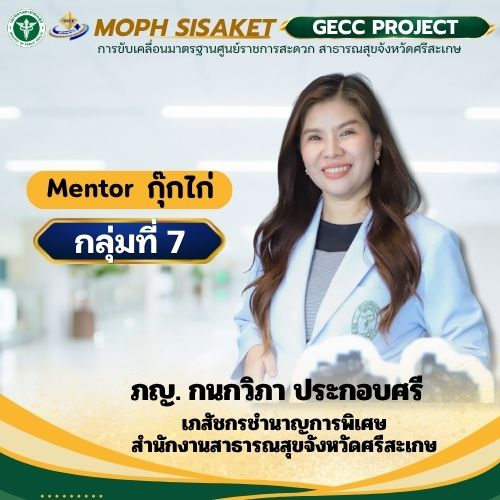
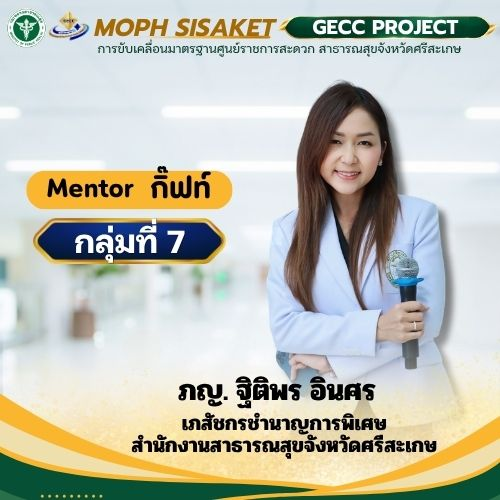
Swap mentor assignments: Mentor Gift to Group 7 and Mentor Kukkai to Group 10

Changed region(s): [[0.24, 0.12, 1.0, 0.87], [0.27, 0.33, 0.45, 0.42]]

diff --git a/index.html b/index.html
@@ -2539,7 +2539,7 @@ const OFFICIAL_UNITS = [
     "name": "โรงพยาบาลยางชุมน้อย (อำเภอยางชุมน้อย)",
     "district": "ยางชุมน้อย",
     "kind": "",
-    "team": 10,
+    "team": 7,
     "prev": ""
   },
   {
@@ -2548,7 +2548,7 @@ const OFFICIAL_UNITS = [
     "name": "โรงพยาบาลกันทรารมย์ (อำเภอกันทรารมย์)",
     "district": "กันทรารมย์",
     "kind": "",
-    "team": 10,
+    "team": 7,
     "prev": ""
   },
   {
@@ -2575,7 +2575,7 @@ const OFFICIAL_UNITS = [
     "name": "โรงพยาบาลปรางค์กู่ (อำเภอปรางค์กู่)",
     "district": "ปรางค์กู่",
     "kind": "",
-    "team": 7,
+    "team": 10,
     "prev": ""
   },
   {
@@ -2584,7 +2584,7 @@ const OFFICIAL_UNITS = [
     "name": "โรงพยาบาลขุนหาญ (อำเภอขุนหาญ)",
     "district": "ขุนหาญ",
     "kind": "",
-    "team": 10,
+    "team": 7,
     "prev": ""
   },
   {
@@ -2593,7 +2593,7 @@ const OFFICIAL_UNITS = [
     "name": "โรงพยาบาลอุทุมพรพิสัย (อำเภออุทุมพรพิสัย)",
     "district": "อุทุมพรพิสัย",
     "kind": "",
-    "team": 7,
+    "team": 10,
     "prev": ""
   },
   {
@@ -2602,7 +2602,7 @@ const OFFICIAL_UNITS = [
     "name": "โรงพยาบาลบึงบูรพ์ (อำเภอบึงบูรพ์)",
     "district": "บึงบูรพ์",
     "kind": "",
-    "team": 10,
+    "team": 7,
     "prev": ""
   },
   {
@@ -2629,7 +2629,7 @@ const OFFICIAL_UNITS = [
     "name": "โรงพยาบาลศรีรัตนะ (อำเภอศรีรัตนะ)",
     "district": "ศรีรัตนะ",
     "kind": "",
-    "team": 7,
+    "team": 10,
     "prev": ""
   },
   {
@@ -2665,7 +2665,7 @@ const OFFICIAL_UNITS = [
     "name": "โรงพยาบาลเมืองจันทร์ (อำเภอเมืองจันทร์)",
     "district": "เมืองจันทร์",
     "kind": "",
-    "team": 10,
+    "team": 7,
     "prev": ""
   },
   {
@@ -2683,7 +2683,7 @@ const OFFICIAL_UNITS = [
     "name": "โรงพยาบาลพยุห์ (อำเภอพยุห์)",
     "district": "พยุห์",
     "kind": "",
-    "team": 7,
+    "team": 10,
     "prev": ""
   },
   {
@@ -2692,7 +2692,7 @@ const OFFICIAL_UNITS = [
     "name": "โรงพยาบาลโพธิ์ศรีสุวรรณ (อำเภอโพธิ์ศรีสุวรรณ)",
     "district": "โพธิ์ศรีสุวรรณ",
     "kind": "",
-    "team": 7,
+    "team": 10,
     "prev": ""
   },
   {
@@ -2950,11 +2950,11 @@ const OFFICIAL_GROUPS = [
   {
     "name": "กลุ่มที่ 7: งานสาธารณสุข",
     "units": [
-      ["โรงพยาบาลศรีรัตนะ (อำเภอศรีรัตนะ)", "ศรีรัตนะ", "h14", "000114"],
-      ["โรงพยาบาลปรางค์กู่ (อำเภอปรางค์กู่)", "ปรางค์กู่", "h07", "000107"],
-      ["โรงพยาบาลพยุห์ (อำเภอพยุห์)", "พยุห์", "h20", "000120"],
-      ["โรงพยาบาลโพธิ์ศรีสุวรรณ (อำเภอโพธิ์ศรีสุวรรณ)", "โพธิ์ศรีสุวรรณ", "h21", "000121"],
-      ["โรงพยาบาลอุทุมพรพิสัย (อำเภออุทุมพรพิสัย)", "อุทุมพรพิสัย", "h10", "000110"]
+      ["โรงพยาบาลเมืองจันทร์ (อำเภอเมืองจันทร์)", "เมืองจันทร์", "h18", "000118"],
+      ["โรงพยาบาลกันทรารมย์ (อำเภอกันทรารมย์)", "กันทรารมย์", "h03", "000103"],
+      ["โรงพยาบาลบึงบูรพ์ (อำเภอบึงบูรพ์)", "บึงบูรพ์", "h11", "000111"],
+      ["โรงพยาบาลขุนหาญ (อำเภอขุนหาญ)", "ขุนหาญ", "h08", "000108"],
+      ["โรงพยาบาลยางชุมน้อย (อำเภอยางชุมน้อย)", "ยางชุมน้อย", "h02", "000102"]
     ]
   },
   {
@@ -2980,11 +2980,11 @@ const OFFICIAL_GROUPS = [
   {
     "name": "กลุ่มที่ 10: งานสาธารณสุข",
     "units": [
-      ["โรงพยาบาลเมืองจันทร์ (อำเภอเมืองจันทร์)", "เมืองจันทร์", "h18", "000118"],
-      ["โรงพยาบาลกันทรารมย์ (อำเภอกันทรารมย์)", "กันทรารมย์", "h03", "000103"],
-      ["โรงพยาบาลบึงบูรพ์ (อำเภอบึงบูรพ์)", "บึงบูรพ์", "h11", "000111"],
-      ["โรงพยาบาลขุนหาญ (อำเภอขุนหาญ)", "ขุนหาญ", "h08", "000108"],
-      ["โรงพยาบาลยางชุมน้อย (อำเภอยางชุมน้อย)", "ยางชุมน้อย", "h02", "000102"]
+      ["โรงพยาบาลศรีรัตนะ (อำเภอศรีรัตนะ)", "ศรีรัตนะ", "h14", "000114"],
+      ["โรงพยาบาลปรางค์กู่ (อำเภอปรางค์กู่)", "ปรางค์กู่", "h07", "000107"],
+      ["โรงพยาบาลพยุห์ (อำเภอพยุห์)", "พยุห์", "h20", "000120"],
+      ["โรงพยาบาลโพธิ์ศรีสุวรรณ (อำเภอโพธิ์ศรีสุวรรณ)", "โพธิ์ศรีสุวรรณ", "h21", "000121"],
+      ["โรงพยาบาลอุทุมพรพิสัย (อำเภออุทุมพรพิสัย)", "อุทุมพรพิสัย", "h10", "000110"]
     ]
   }
 ];
@@ -3195,11 +3195,11 @@ const MENTOR_MEMBERS = {
     "focus": "งานสาธารณสุข (โรงพยาบาล 5 แห่ง)",
     "m": [
       [
-        "ภญ.กนกวิภา ประกอบศรี",
-        "กลุ่มงานคุ้มครองผู้บริโภคฯ สำนักงานสาธารณสุขจังหวัดศรีสะเกษ",
-        "assets/images/mentor-group-7-1.jpg?v=2570e",
+        "ภญ.ฐิติพร อินศร",
+        "เภสัชกรชำนาญการพิเศษ สำนักงานสาธารณสุขจังหวัดศรีสะเกษ",
+        "assets/images/mentor-group-7-1.jpg?v=2570g",
         "หัวหน้าทีม",
-        "0896254066"
+        "0894230010"
       ]
     ]
   },
@@ -3207,9 +3207,9 @@ const MENTOR_MEMBERS = {
     "focus": "งานสาธารณสุข (โรงพยาบาล 5 แห่ง)",
     "m": [
       [
-        "ภญ.ณัฐธิดา ถาวรยุติการณ์",
+        "ภญ.ณัฐธิดา ถาวรยุติกานต์",
         "กลุ่มงานคุ้มครองผู้บริโภคฯ สำนักงานสาธารณสุขจังหวัดศรีสะเกษ",
-        "assets/images/mentor-group-8-1.jpg?v=2570e",
+        "assets/images/mentor-group-8-1.jpg?v=2570g",
         "หัวหน้าทีม",
         ""
       ]
@@ -3221,7 +3221,7 @@ const MENTOR_MEMBERS = {
       [
         "ภญ.มุธิตา โพธิบุตร",
         "กลุ่มงานคุ้มครองผู้บริโภคฯ สำนักงานสาธารณสุขจังหวัดศรีสะเกษ",
-        "assets/images/mentor-group-9-1.jpg?v=2570e",
+        "assets/images/mentor-group-9-1.jpg?v=2570g",
         "หัวหน้าทีม",
         ""
       ]
@@ -3231,11 +3231,11 @@ const MENTOR_MEMBERS = {
     "focus": "งานสาธารณสุข (โรงพยาบาล 5 แห่ง)",
     "m": [
       [
-        "ภญ.ฐิติพร อินศร",
-        "เภสัชกรชำนาญการพิเศษ สำนักงานสาธารณสุขจังหวัดศรีสะเกษ",
-        "assets/images/mentor-group-10-1.jpg?v=2570e",
+        "ภญ.กนกวิภา ประกอบศรี",
+        "กลุ่มงานคุ้มครองผู้บริโภคฯ สำนักงานสาธารณสุขจังหวัดศรีสะเกษ",
+        "assets/images/mentor-group-10-1.jpg?v=2570g",
         "หัวหน้าทีม",
-        "0894230010"
+        "0896254066"
       ]
     ]
   }
@@ -3285,8 +3285,8 @@ function migrate(db){
     if(!t.lead) t.lead=mentorLead(t.id);
     if(t.focus===undefined) t.focus=MENTOR_MEMBERS[t.id]?.focus||'';
   });
-  db.mentorRosterVersion=7;
-  if((db.rosterVersion||0)<7){
+  db.mentorRosterVersion=8;
+  if((db.rosterVersion||0)<8){
     for(const official of OFFICIAL_UNITS){
       const current=db.units.find(u=>u.id===official.id);
       if(!current&&!db.units.some(u=>u.name===official.name)) db.units.push({...official});
@@ -3305,7 +3305,7 @@ function migrate(db){
         tm.photo=GROUP_PHOTOS[gid]||tm.photo;
       }
     });
-    db.rosterVersion=7;
+    db.rosterVersion=8;
   }
   Object.entries(db.assess||{}).forEach(([uid,a])=>{ if(!Array.isArray(a.inspectors)){ const u=db.units.find(x=>x.id===uid); const t=u&&db.teams.find(x=>x.id===u.team); a.inspectors = (db.isSample && a.started && t) ? t.members.slice(0,2).map(m=>m.name) : []; a.inspector = a.inspectors.join(', ') || (db.isSample?'':a.inspector||''); } });
   return db;
